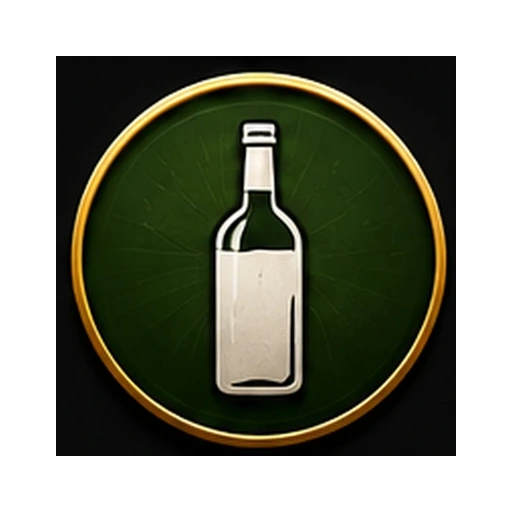
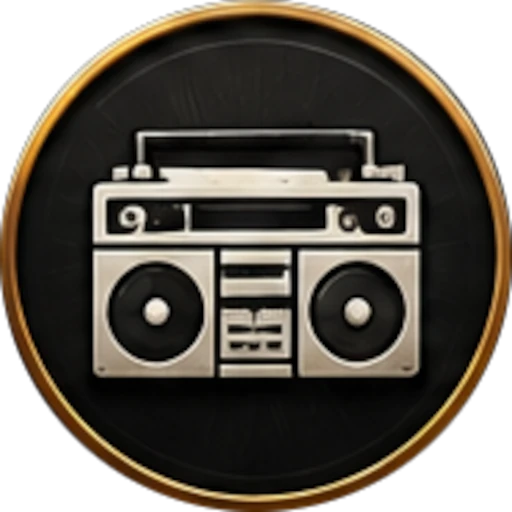
patch_fix_keypad_cut_bottom_x01

diff --git a/src/components/ScoreInputHub.tsx b/src/components/ScoreInputHub.tsx
@@ -485,16 +485,18 @@ function VisitScoreKeypad({
   const canEnter = raw.trim().length > 0 && Number.isFinite(parsed) && parsed >= 0 && parsed <= 180;
   const quickScores = [26, 41, 45, 60, 81, 85, 95, 100, 121, 125, 140, 180];
 
+  const compactFit = fitToParent;
+
   const wrapCard: React.CSSProperties = {
     background: "linear-gradient(180deg, rgba(22,22,23,.85), rgba(12,12,14,.95))",
     border: "1px solid rgba(255,255,255,.08)",
-    borderRadius: 18,
-    padding: 12,
+    borderRadius: compactFit ? 16 : 18,
+    padding: compactFit ? 10 : 12,
     boxShadow: "0 10px 30px rgba(0,0,0,.35)",
     userSelect: "none",
   };
   const btnBase: React.CSSProperties = {
-    height: "clamp(42px, 8.2vw, 52px)",
+    height: compactFit ? "clamp(38px, 7.2vw, 48px)" : "clamp(42px, 8.2vw, 52px)",
     borderRadius: 16,
     border: "1px solid rgba(255,255,255,.08)",
     background: "rgba(255,255,255,.04)",
@@ -524,8 +526,8 @@ function VisitScoreKeypad({
   };
   const btnPreset: React.CSSProperties = {
     ...btnBase,
-    height: "clamp(34px, 7vw, 42px)",
-    borderRadius: 14,
+    height: compactFit ? "clamp(30px, 5.8vw, 36px)" : "clamp(34px, 7vw, 42px)",
+    borderRadius: compactFit ? 12 : 14,
     color: "#ffe7a8",
     background: "rgba(255,187,51,.10)",
     border: "1px solid rgba(255,187,51,.20)",
@@ -578,7 +580,16 @@ function VisitScoreKeypad({
       style={{
         paddingBottom: 6,
         ...contentBoxStyle,
-        ...(fitToParent ? { flex: 1, minHeight: 0, overflow: "hidden" } : {}),
+        ...(fitToParent
+          ? {
+              flex: 1,
+              minHeight: 0,
+              overflowX: "hidden",
+              overflowY: "auto",
+              overscrollBehavior: "contain",
+              paddingBottom: "calc(10px + env(safe-area-inset-bottom))",
+            }
+          : {}),
       }}
     >
       <div
@@ -593,22 +604,22 @@ function VisitScoreKeypad({
             : undefined
         }
       >
-        <div style={{ ...wrapCard, width: "100%", maxWidth: "100%", margin: "0 auto", paddingBottom: "calc(12px + var(--safe-bottom))" }}>
-          <div style={{ display: "grid", gridTemplateColumns: "1fr auto 1fr", alignItems: "center", gap: 10, marginBottom: 10 }}>
+        <div style={{ ...wrapCard, width: "100%", maxWidth: "100%", margin: "0 auto", paddingBottom: "calc(8px + env(safe-area-inset-bottom))" }}>
+          <div style={{ display: "grid", gridTemplateColumns: "1fr auto 1fr", alignItems: "center", gap: compactFit ? 8 : 10, marginBottom: compactFit ? 8 : 10 }}>
             <button type="button" style={btnDanger} disabled={disabled} onClick={() => onSubmit(0, { bust: true })}>BUST</button>
             <div
               aria-live="polite"
               style={{
-                minWidth: 92,
-                minHeight: 48,
-                borderRadius: 16,
+                minWidth: compactFit ? 84 : 92,
+                minHeight: compactFit ? 42 : 48,
+                borderRadius: compactFit ? 14 : 16,
                 display: "grid",
                 placeItems: "center",
-                padding: "6px 14px",
+                padding: compactFit ? "4px 12px" : "6px 14px",
                 background: "rgba(0,0,0,.55)",
                 border: "1px solid rgba(255,187,51,.42)",
                 color: "#ffc63a",
-                fontSize: 26,
+                fontSize: compactFit ? 24 : 26,
                 lineHeight: 1,
                 fontWeight: 1000,
                 boxShadow: "0 0 22px rgba(255,170,0,.16)",
@@ -619,14 +630,14 @@ function VisitScoreKeypad({
             <button type="button" style={btnGold} disabled={disabled} onClick={() => submitTyped("typed")}>ENTRER</button>
           </div>
 
-          <div style={{ display: "grid", gridTemplateColumns: "repeat(4, minmax(0, 1fr))", gap: 8, marginBottom: 10 }}>
+          <div style={{ display: "grid", gridTemplateColumns: "repeat(4, minmax(0, 1fr))", gap: compactFit ? 6 : 8, marginBottom: compactFit ? 8 : 10 }}>
             <button type="button" style={btnBase} disabled={disabled} onClick={() => submit(0, "miss")}>MISS</button>
             <button type="button" style={btnBull} disabled={disabled} onClick={() => submit(25, "bull25")}>BULL 25</button>
             <button type="button" style={btnBull} disabled={disabled} onClick={() => submit(50, "bull50")}>BULL 50</button>
             <button type="button" style={btnBase} disabled={disabled} onClick={onCancel}>ANNULER</button>
           </div>
 
-          <div style={{ display: "grid", gridTemplateColumns: "repeat(6, minmax(0, 1fr))", gap: 7, marginBottom: 10 }}>
+          <div style={{ display: "grid", gridTemplateColumns: "repeat(6, minmax(0, 1fr))", gap: compactFit ? 6 : 7, marginBottom: compactFit ? 8 : 10 }}>
             {quickScores.map((score) => (
               <button key={score} type="button" style={btnPreset} disabled={disabled} onClick={() => submit(score, "quick")}>
                 {score}
@@ -634,7 +645,7 @@ function VisitScoreKeypad({
             ))}
           </div>
 
-          <div style={{ display: "grid", gridTemplateColumns: "repeat(3, minmax(0, 1fr))", gap: 8 }}>
+          <div style={{ display: "grid", gridTemplateColumns: "repeat(3, minmax(0, 1fr))", gap: compactFit ? 6 : 8 }}>
             {[1, 2, 3, 4, 5, 6, 7, 8, 9].map((digit) => (
               <button key={digit} type="button" style={btnBase} disabled={disabled} onClick={() => pushDigit(digit)}>
                 {digit}
@@ -646,11 +657,11 @@ function VisitScoreKeypad({
           </div>
 
           {(localError || feedback) ? (
-            <div style={{ marginTop: 10, borderRadius: 14, padding: "8px 10px", border: "1px solid rgba(255,204,102,.34)", background: "rgba(255,174,0,.08)", color: "#ffcc66", fontSize: 11.5, fontWeight: 850, lineHeight: 1.25 }}>
+            <div style={{ marginTop: compactFit ? 8 : 10, borderRadius: 14, padding: compactFit ? "7px 9px" : "8px 10px", border: "1px solid rgba(255,204,102,.34)", background: "rgba(255,174,0,.08)", color: "#ffcc66", fontSize: compactFit ? 10.8 : 11.5, fontWeight: 850, lineHeight: 1.25 }}>
               {localError || feedback}
             </div>
           ) : (
-            <div style={{ marginTop: 10, color: "rgba(255,255,255,.54)", fontSize: 11.5, fontWeight: 750, textAlign: "center" }}>
+            <div style={{ marginTop: compactFit ? 8 : 10, color: "rgba(255,255,255,.54)", fontSize: compactFit ? 10.8 : 11.5, fontWeight: 750, textAlign: "center" }}>
               Saisie rapide du total : les stats S/D/T seront masquées pour cette partie.
             </div>
           )}
@@ -740,7 +751,16 @@ function DartboardInput({
       style={{
         paddingBottom: 6,
         ...contentBoxStyle,
-        ...(fitToParent ? { flex: 1, minHeight: 0, overflow: "hidden" } : {}),
+        ...(fitToParent
+          ? {
+              flex: 1,
+              minHeight: 0,
+              overflowX: "hidden",
+              overflowY: "auto",
+              overscrollBehavior: "contain",
+              paddingBottom: "calc(10px + env(safe-area-inset-bottom))",
+            }
+          : {}),
       }}
     >
       <div